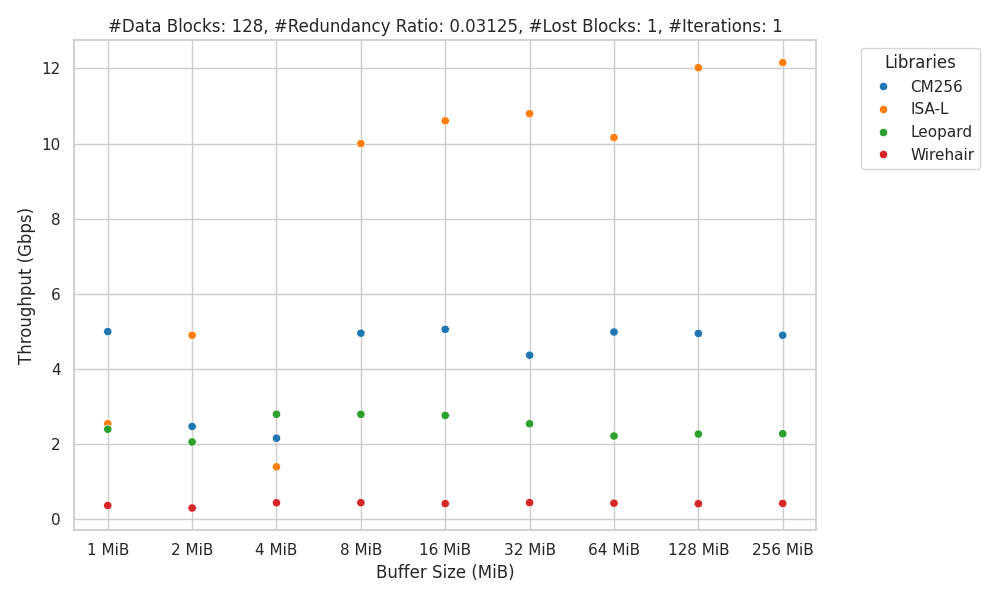
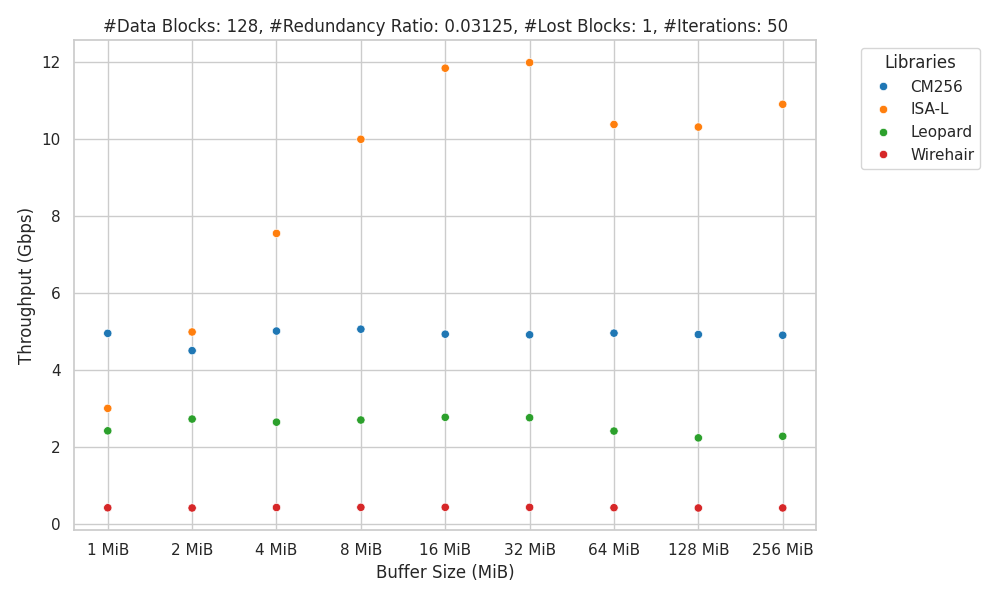
New plots with 50 iterations

diff --git a/src/main.cpp b/src/main.cpp
@@ -20,7 +20,7 @@
 
 #if RUNNING_ON_DOCKER
 
-  #define FIXED_NUM_ITERATIONS 1
+  #define FIXED_NUM_ITERATIONS 50
 
   // Fixed buffer size of 64 MiB
   #define FIXED_BUFFER_SIZE 67108864
